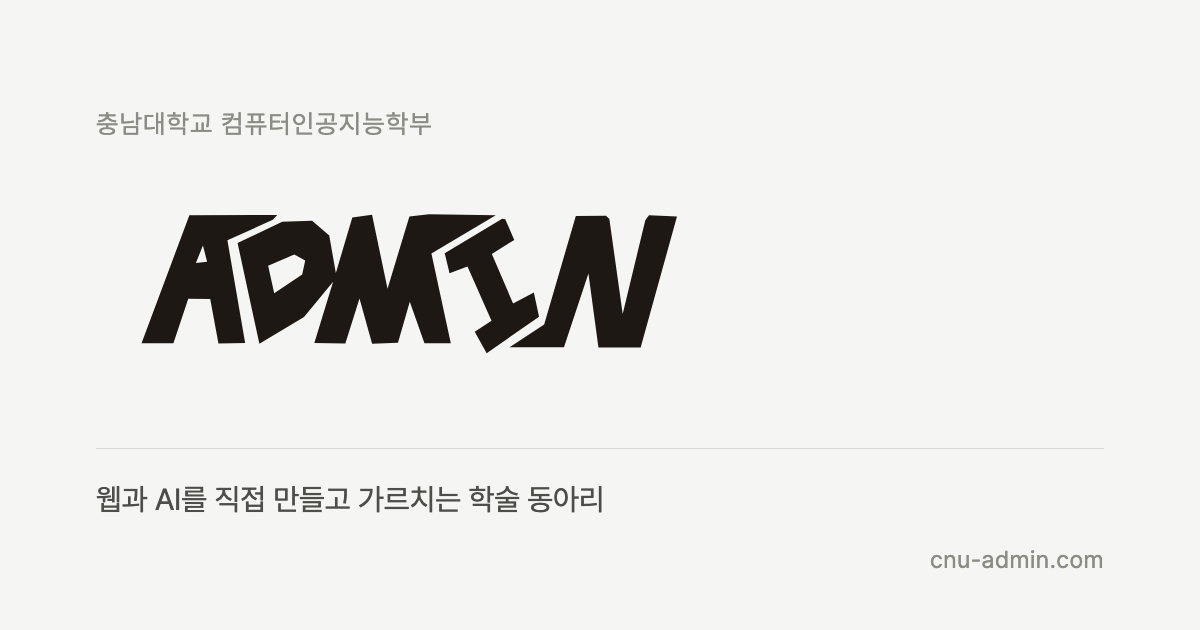
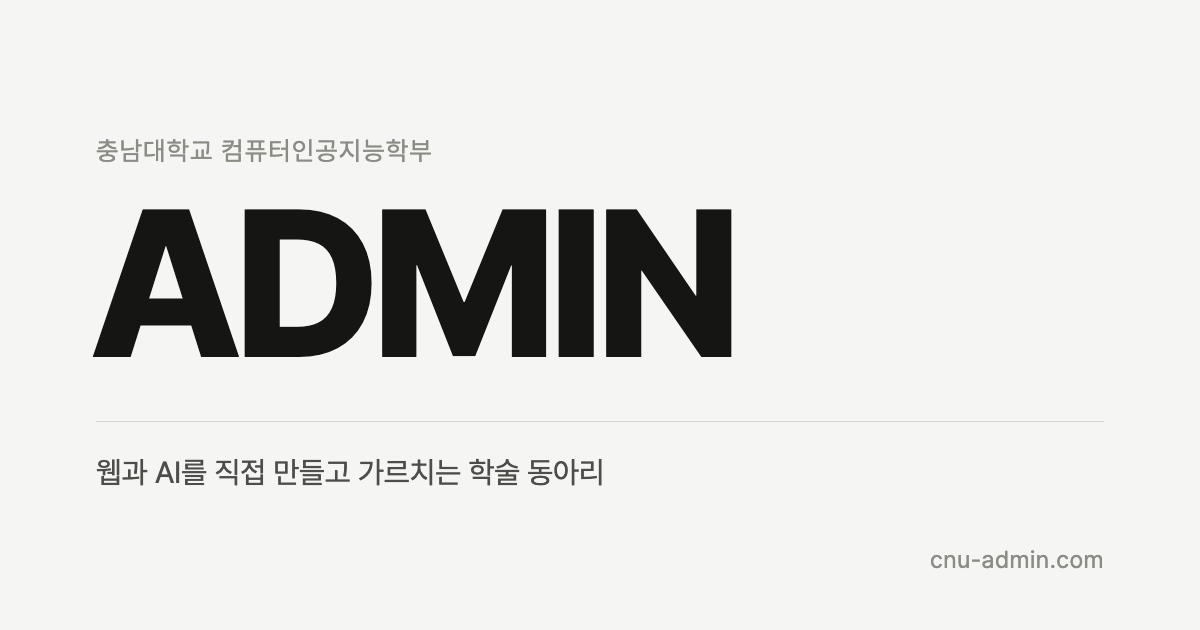
로고 이미지를 되돌리고 ADMIN 글자로 복구
상단 바, 첫 화면, 커버 이미지, 파비콘을 모두 글자 상태로 되돌린다.
로고 이미지 파일과 관련 코드도 함께 제거했다.

Changed region(s): [[0.0617, 0.3317, 0.6167, 0.573], [0.0617, 0.7238, 0.5242, 0.8143], [0.0617, 0.181, 0.37, 0.2714]]

diff --git a/style.css b/style.css
@@ -61,14 +61,13 @@ a:focus-visible,
 }
 .topbar__inner {
   display: flex;
-  align-items: center;
+  align-items: baseline;
   justify-content: space-between;
   gap: 24px;
   height: 54px;
+  padding-top: 17px;
 }
 .topbar__mark {
-  display: flex;
-  align-items: center;
   font-size: 0.8125rem;
   font-weight: 700;
   letter-spacing: 0.14em;
@@ -102,26 +101,6 @@ a:focus-visible,
   line-height: 0.86;
   letter-spacing: -0.045em;
   margin-left: -0.035em;        /* 좌측 광학 정렬 */
-}
-
-/* ── 로고 ───────────────────────────────────── */
-/* 'ADMIN' 글자 자리에 들어가는 이미지. 배경이 투명한 PNG. */
-.logo {
-  display: block;
-  width: auto;
-  height: auto;
-}
-.logo--mark {                   /* 상단 고정 바 */
-  height: 17px;
-}
-.logo--mast {                   /* 첫 화면 */
-  /* SVG 라서 아무리 키워도 흐려지지 않습니다. */
-  width: clamp(240px, 60vw, 900px);
-  max-width: 100%;
-}
-.masthead__name:has(.logo) {    /* 로고가 들어가면 글자용 여백은 쓰지 않음 */
-  margin-left: 0;
-  line-height: 1;
 }
 .masthead__tagline {
   margin-top: clamp(26px, 5vh, 52px);
@@ -513,8 +492,7 @@ a:focus-visible,
 
 @media (max-width: 560px) {
   body { font-size: 15px; }
-  .topbar__inner { height: 50px; }
-  .logo--mark { height: 15px; }
+  .topbar__inner { height: 50px; padding-top: 15px; }
   .topbar__nav ul { gap: 11px; }
   .topbar__nav a { font-size: 0.75rem; }
   .award { grid-template-columns: 48px minmax(0, 1fr); }

diff --git a/index.html b/index.html
@@ -19,8 +19,6 @@
 <meta property="og:locale" content="ko_KR">
 <meta name="twitter:card" content="summary_large_image">
 <link rel="canonical" href="https://cnu-admin.com/">
-<link rel="icon" href="images/admin-logo.svg" type="image/svg+xml">
-<link rel="icon" href="images/admin-logo.png" type="image/png">
 
 <link rel="preconnect" href="https://cdn.jsdelivr.net">
 <link rel="stylesheet" as="style" crossorigin
@@ -32,7 +30,7 @@
 <!-- 상단 고정 바 -->
 <div class="topbar">
   <div class="wrap topbar__inner">
-    <a class="topbar__mark" href="#top" data-site-logo="mark"></a>
+    <a class="topbar__mark" href="#top" data-site="name">ADMIN</a>
     <nav class="topbar__nav" aria-label="섹션 바로가기">
       <ul data-site="nav"></ul>
     </nav>
@@ -43,7 +41,7 @@
 <header class="masthead" id="top">
   <div class="wrap">
     <p class="masthead__affil" data-site="affiliation"></p>
-    <h1 class="masthead__name" data-site-logo="mast"></h1>
+    <h1 class="masthead__name" data-site="name"></h1>
     <p class="masthead__tagline" data-site="tagline"></p>
     <a class="btn masthead__cta" data-site-cta></a>
   </div>

diff --git a/app.js b/app.js
@@ -84,16 +84,6 @@
     bindText("site", site);
     document.title = `${site.name} — ${site.affiliation}`;
 
-    /* 'ADMIN' 만 단독으로 들어가는 자리는 로고 이미지로 바꿉니다.
-       data.js 의 site.logo 를 비우면 글자로 돌아갑니다. */
-    $$("[data-site-logo]").forEach((slot) => {
-      if (!site.logo) { slot.textContent = site.name; return; }
-      const img = el("img", `logo logo--${slot.dataset.siteLogo}`);
-      img.src = site.logo;
-      img.alt = site.name;
-      slot.appendChild(img);
-    });
-
     const cta = $("[data-site-cta]");
     if (site.cta) fillLink(cta, site.cta);
     else cta.remove();

diff --git a/data.js b/data.js
@@ -10,8 +10,6 @@ const DATA = {
   /* 1. 첫 화면 ─────────────────────────────────────────────── */
   site: {
     name: "ADMIN",
-    // 'ADMIN' 글자 대신 쓸 로고. 비워 두면 글자로 나옵니다.
-    logo: "images/admin-logo.svg",
     // 이름 옆 작은 글씨 (학교/소속)
     affiliation: "충남대학교 컴퓨터인공지능학부",
     // 한 줄 소개. 페이지 최상단 큰 문장.
